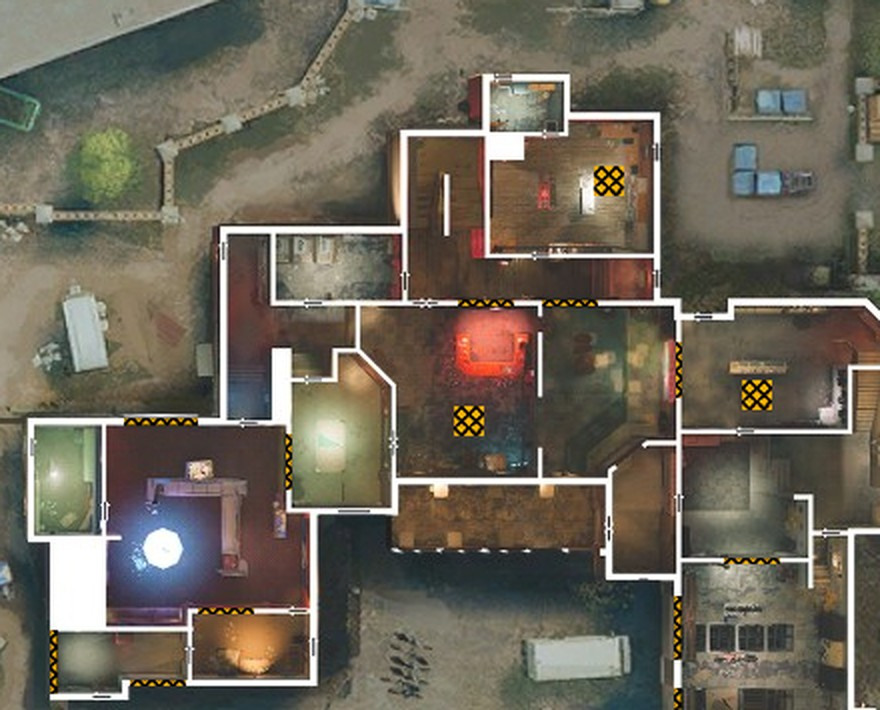
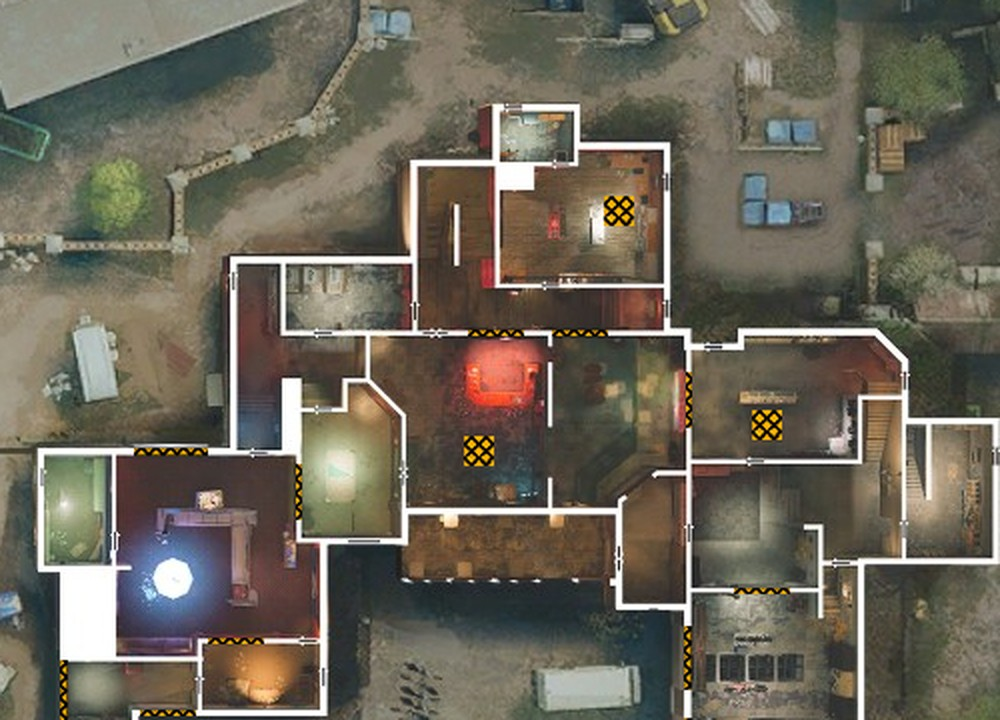
fix(clubhouse): widen crop to include right wing; anchor callouts top-left
- Re-crop blueprints with wider box so the right side is no longer cut
- Transform callout coords to the new crop
- Change .t-callout to top-left anchored positioning

diff --git a/public/css/tactical.css b/public/css/tactical.css
@@ -170,7 +170,6 @@
 
 .t-callout {
   position: absolute;
-  transform: translate(-50%, -50%);
   color: #fff;
   font-size: 12px;
   font-weight: 700;
